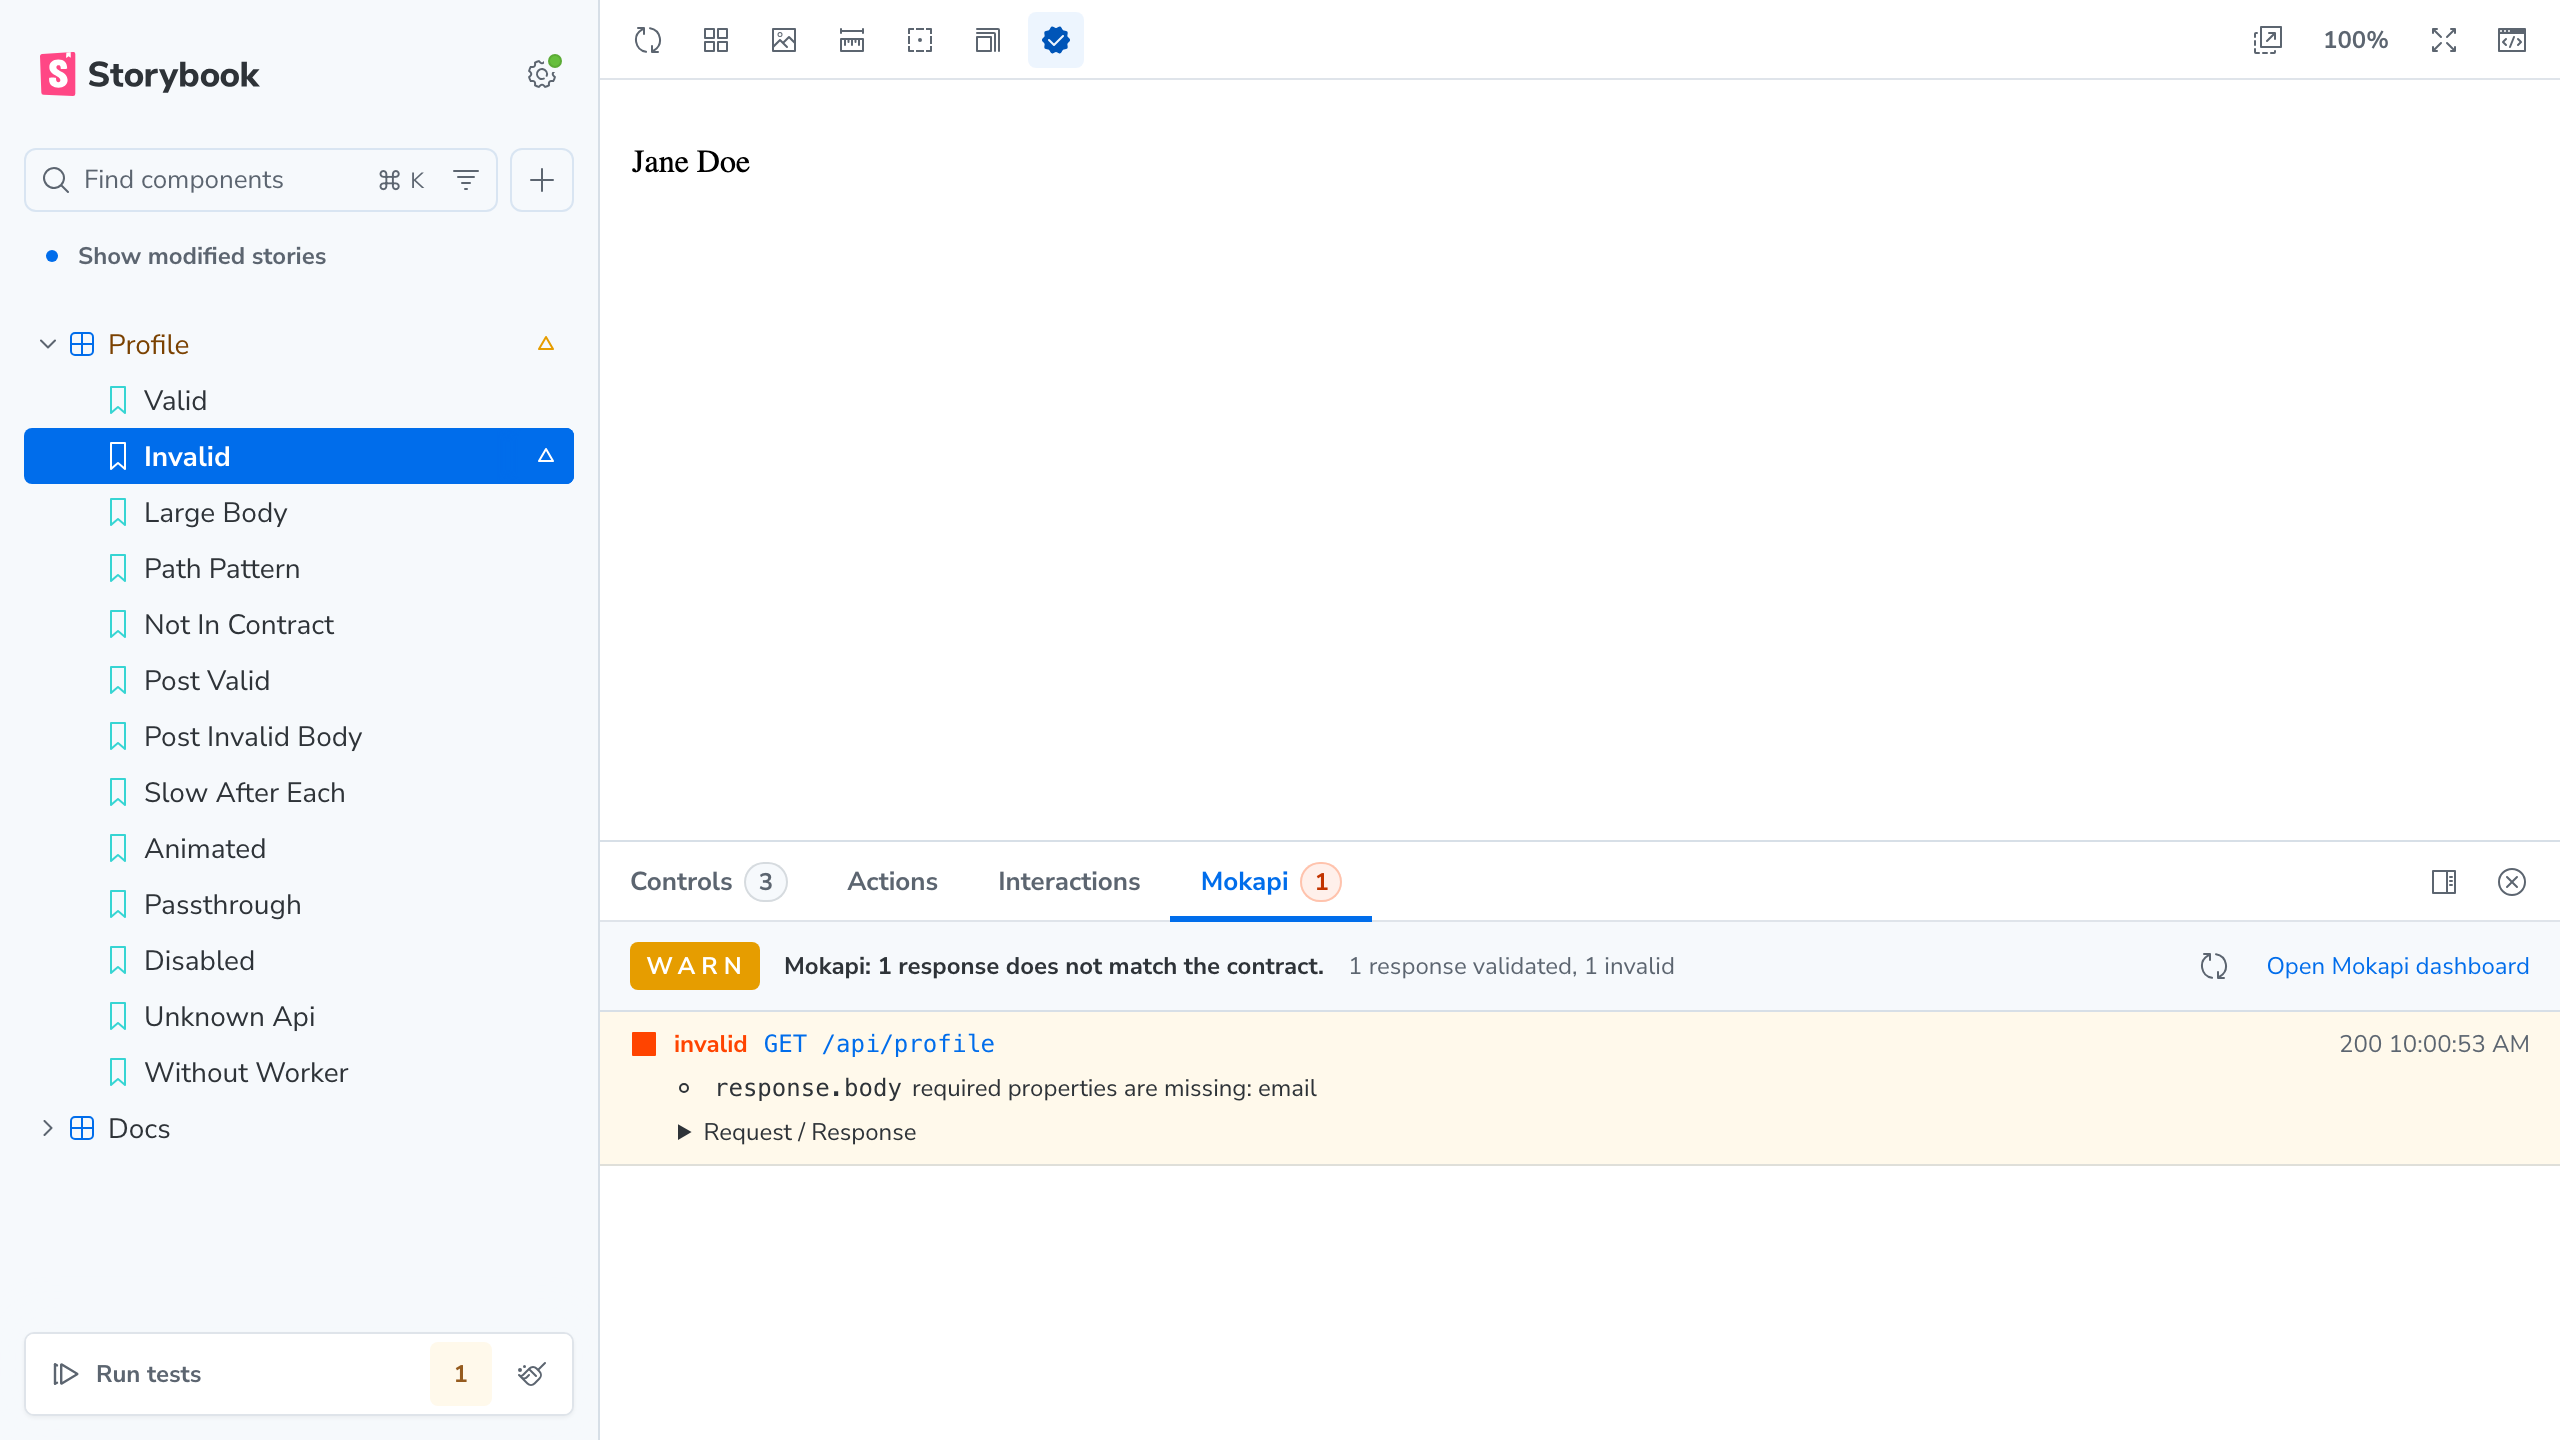
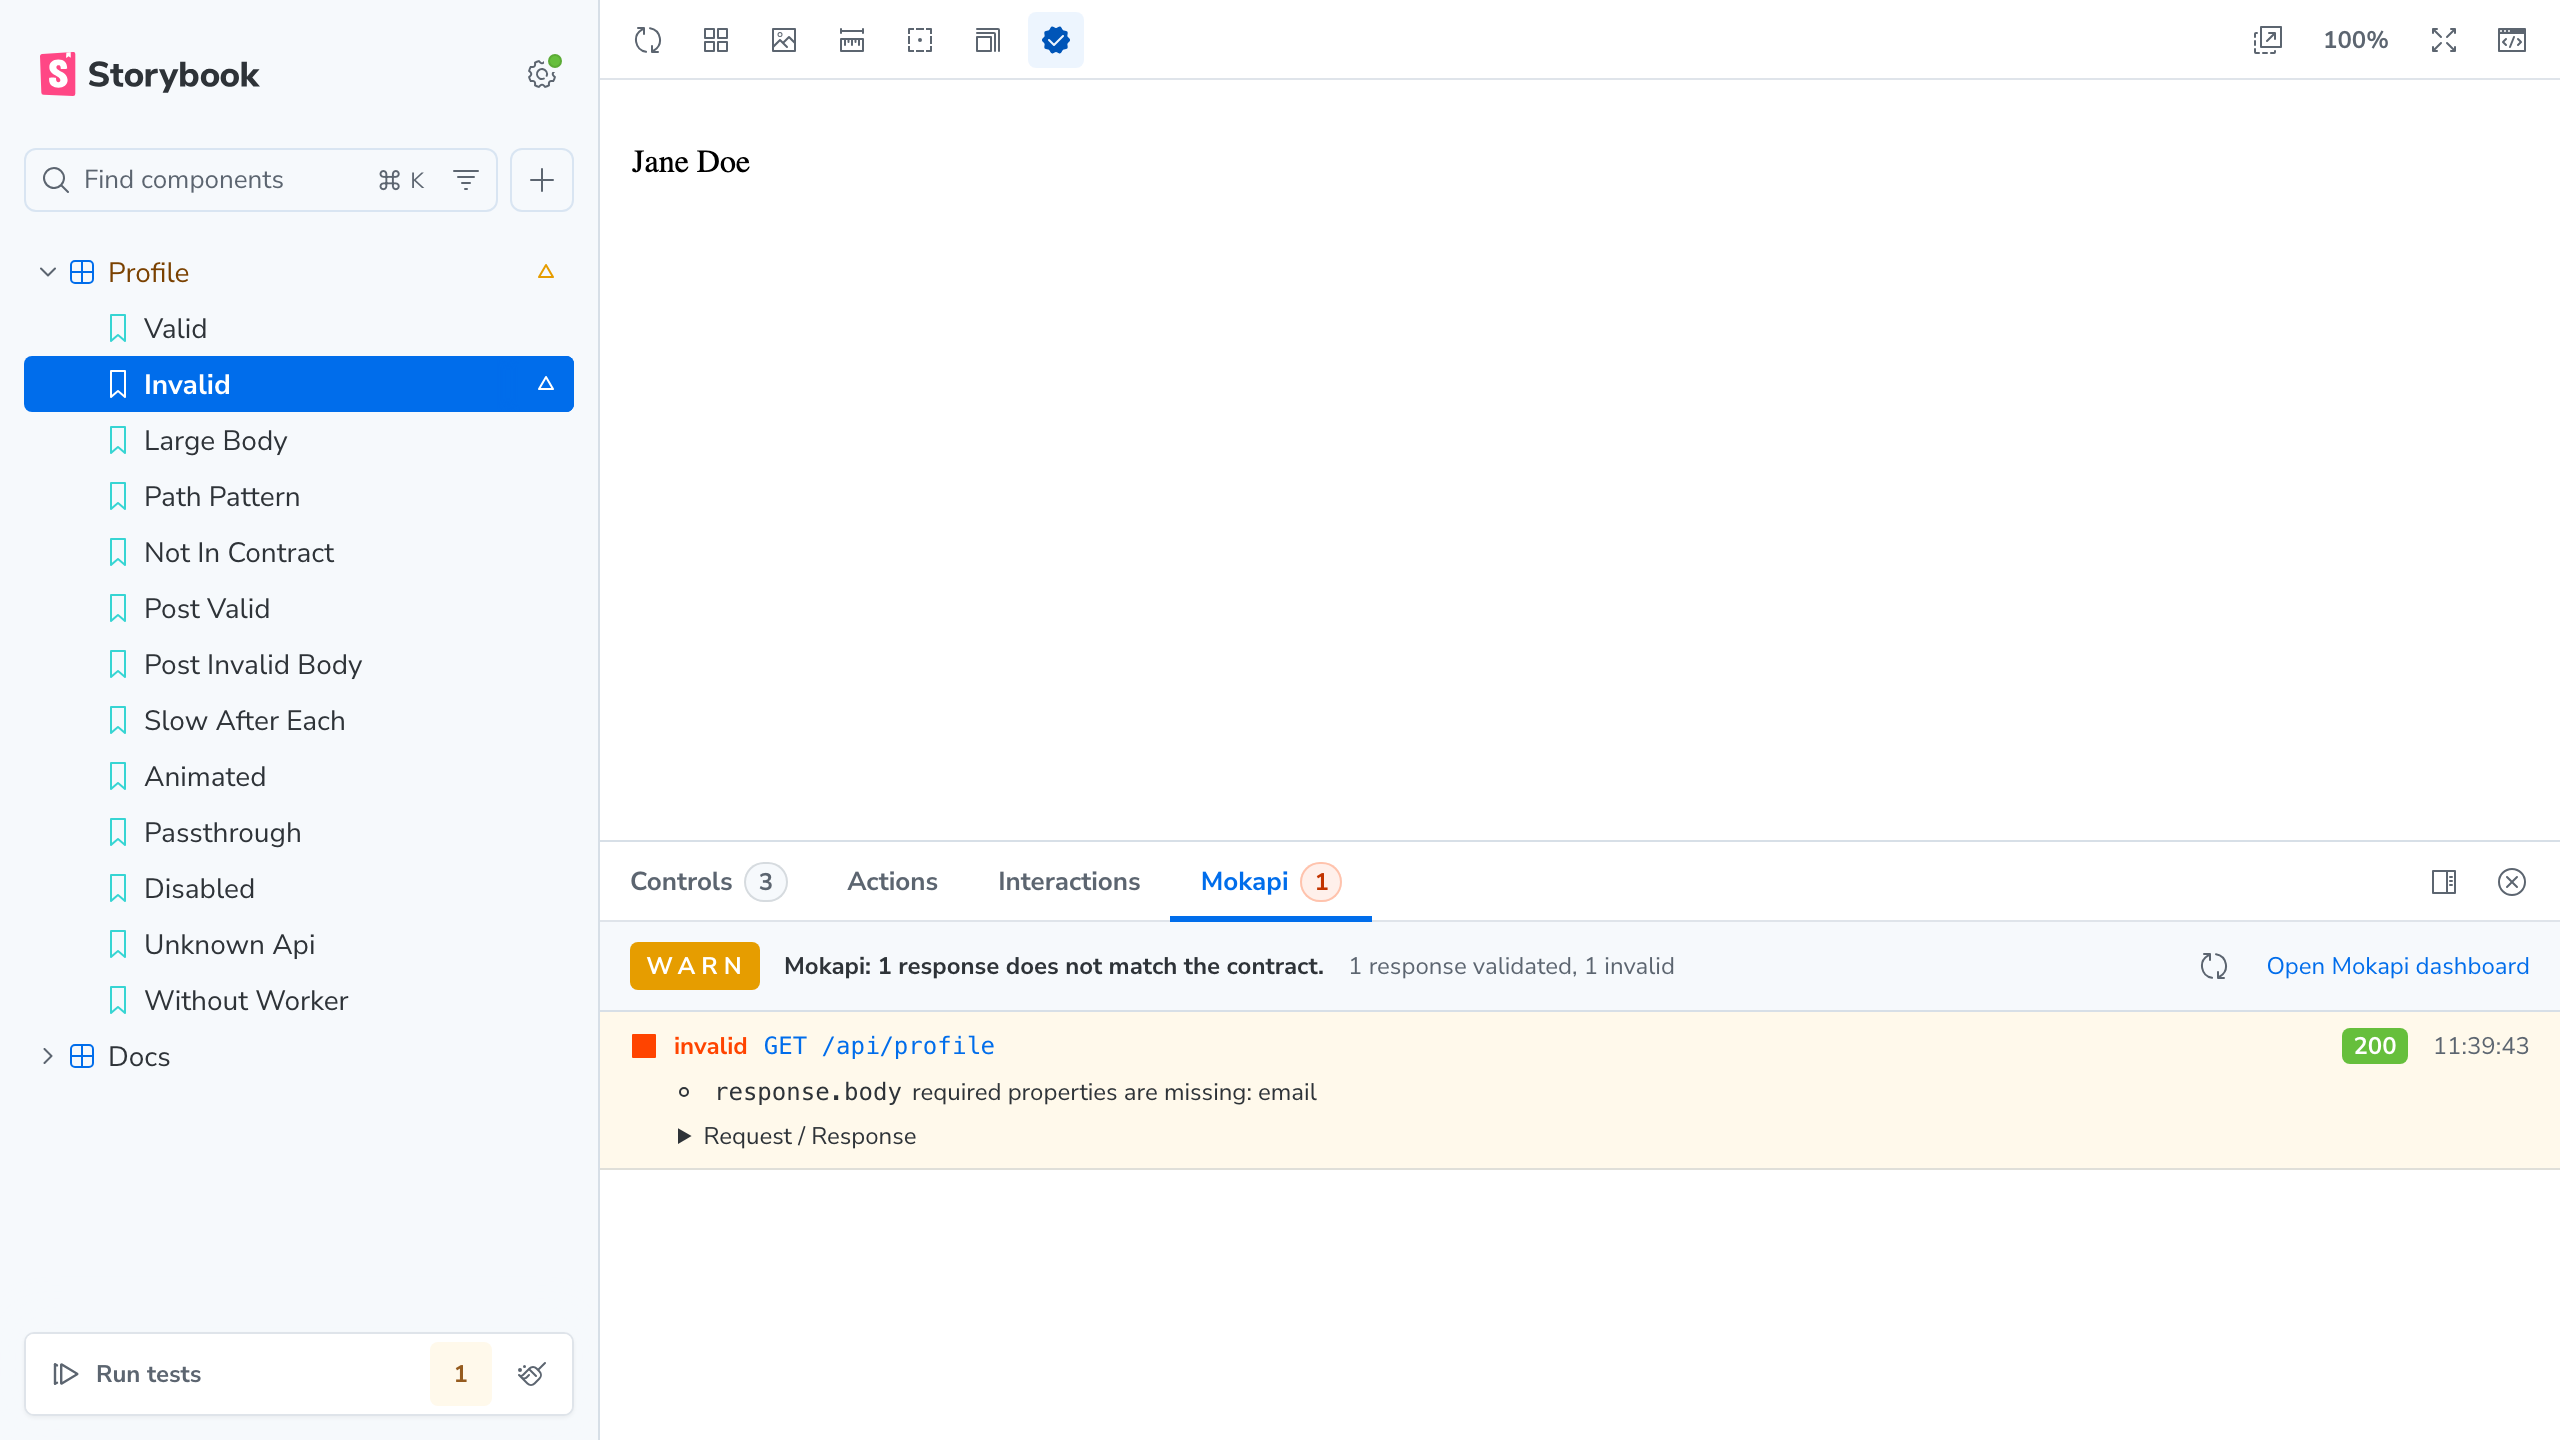
feat(panel): show HTTP status as colored badge and time as HH:mm:ss

diff --git a/src/manager.tsx b/src/manager.tsx
@@ -12,12 +12,17 @@ import {
   BODY_LIMIT,
   countLine,
   formatBody,
+  formatTime,
   KIND_LABELS,
   reportBadge,
   reportHeadline,
   sidebarStatus,
+  statusColor,
+  statusLabel,
+  statusText,
   STATUS_TYPE_ID,
   testModeText,
+  type BadgeColor,
   type ReportBadge,
 } from './report.js';
 import {
@@ -90,7 +95,7 @@ const Title = styled.span({ display: 'inline-flex', gap: 6, alignItems: 'center'
 const ProviderLabel = styled.div({ padding: '8px 12px' });
 
 // Same look as the status badge of Storybook's Interactions panel, which is not exported.
-const StatusBadge = styled.span<{ status: ReportBadge['status'] }>(({ theme, status }) => ({
+const StatusBadge = styled.span<{ status: BadgeColor }>(({ theme, status }) => ({
   display: 'inline-block',
   padding: '4px 6px 4px 8px',
   borderRadius: 4,
@@ -103,6 +108,8 @@ const StatusBadge = styled.span<{ status: ReportBadge['status'] }>(({ theme, sta
   minWidth: 65,
   textAlign: 'center',
 }));
+// Three digits next to the 12 px row text: same color, radius and weight, but no button look.
+const CodeBadge = styled(StatusBadge)({ textTransform: 'none', letterSpacing: 0, minWidth: 0, padding: '1px 6px' });
 const ToolbarRow = styled.div(({ theme }) => ({
   display: 'flex',
   flexWrap: 'wrap',
@@ -135,7 +142,8 @@ const EntryKind = styled.strong<{ status: Entry['status'] }>(({ theme, status })
   color: status === 'valid' ? theme.color.positive : status === 'invalid' ? theme.color.negative : theme.color.mediumdark,
 }));
 const EntryUrl = styled.span(({ theme }) => ({ fontFamily: theme.typography.fonts.mono }));
-const EntryMeta = styled.span(({ theme }) => ({ marginLeft: 'auto', whiteSpace: 'nowrap', color: theme.textMutedColor }));
+const EntryMeta = styled.span({ display: 'flex', alignItems: 'center', gap: 12, marginLeft: 'auto', whiteSpace: 'nowrap' });
+const EntryTime = styled.span(({ theme }) => ({ color: theme.textMutedColor }));
 const Errors = styled.ul({ margin: '6px 0 0', paddingLeft: 40 });
 const EntryMessage = styled.div({ paddingLeft: 24 });
 const Details = styled.details({ marginTop: 6, paddingLeft: 24 });
@@ -167,7 +175,25 @@ function EntryIcon({ status }: { status: Entry['status'] }) {
 const headerLines = (headers: Record<string, string>): string =>
   Object.entries(headers).map(([name, value]) => `${name}: ${value}`).join('\n');
 
-function Message({ title, summary, details }: { title: string; summary: string; details?: MessageDetails }) {
+function BadgeTooltip({ note, children }: { note: string; children: ReactNode }) {
+  return (
+    <WithTooltip hasChrome={false} placement="top" trigger="hover" tooltip={<TooltipNote note={note} />}>
+      {children}
+    </WithTooltip>
+  );
+}
+
+function HttpStatusBadge({ statusCode }: { statusCode: number }) {
+  return (
+    <BadgeTooltip note={statusText(statusCode) ?? String(statusCode)}>
+      <CodeBadge status={statusColor(statusCode)} aria-label={statusLabel(statusCode)} data-testid="mokapi-status-badge">
+        {statusCode}
+      </CodeBadge>
+    </BadgeTooltip>
+  );
+}
+
+function Message({ title, summary, details }: { title: string; summary: ReactNode; details?: MessageDetails }) {
   if (!details) return null;
   return (
     <div>
@@ -201,7 +227,10 @@ function EntryItem({ entry }: { entry: Entry }) {
             </Link>
           ) : request}
         </EntryUrl>
-        <EntryMeta>{`${entry.statusCode} ${new Date(entry.time).toLocaleTimeString()}`}</EntryMeta>
+        <EntryMeta data-testid="mokapi-entry-meta">
+          <HttpStatusBadge statusCode={entry.statusCode} />
+          <EntryTime data-testid="mokapi-entry-time">{formatTime(entry.time)}</EntryTime>
+        </EntryMeta>
       </EntryHeader>
       {entry.message && <EntryMessage>{entry.message}</EntryMessage>}
       {entry.errors.length > 0 && (
@@ -215,7 +244,7 @@ function EntryItem({ entry }: { entry: Entry }) {
         <Details data-testid="mokapi-details">
           <Summary>Request / Response</Summary>
           <Message title="Request" summary={request} details={entry.request} />
-          <Message title="Response" summary={String(entry.statusCode)} details={entry.response} />
+          <Message title="Response" summary={<HttpStatusBadge statusCode={entry.statusCode} />} details={entry.response} />
         </Details>
       )}
     </EntryRow>
@@ -224,9 +253,9 @@ function EntryItem({ entry }: { entry: Entry }) {
 
 function ReportStatusBadge({ badge, testMode }: { badge: ReportBadge; testMode: NonNullable<PanelState['testMode']> }) {
   return (
-    <WithTooltip hasChrome={false} placement="top" trigger="hover" tooltip={<TooltipNote note={testModeText(testMode)} />}>
+    <BadgeTooltip note={testModeText(testMode)}>
       <StatusBadge status={badge.status} data-testid="mokapi-report-badge">{badge.label}</StatusBadge>
-    </WithTooltip>
+    </BadgeTooltip>
   );
 }
 

diff --git a/src/report.ts b/src/report.ts
@@ -107,6 +107,53 @@ export function reportBadge(testMode: TestMode | undefined, report: Report | und
   return report === undefined ? { label: 'WAIT', status: 'mediumdark' } : REPORT_BADGES[report.status];
 }
 
+// The names are Storybook's theme colors. The groups are the ones of the dashboard's `getClassByStatusCode`.
+export type BadgeColor = 'positive' | 'secondary' | 'warning' | 'negative' | 'mediumdark';
+
+// Keyed by the hundreds digit of the status code.
+const STATUS_GROUPS: Record<number, { name: string; color: BadgeColor }> = {
+  1: { name: 'Informational', color: 'mediumdark' },
+  2: { name: 'Success', color: 'positive' },
+  3: { name: 'Redirect', color: 'secondary' },
+  4: { name: 'Client error', color: 'warning' },
+  5: { name: 'Server error', color: 'negative' },
+};
+
+// The codes of RFC 9110 (with its names) and the common ones of other RFCs.
+const STATUS_TEXTS: Record<number, string> = {
+  100: 'Continue', 101: 'Switching Protocols',
+  200: 'OK', 201: 'Created', 202: 'Accepted', 203: 'Non-Authoritative Information', 204: 'No Content',
+  205: 'Reset Content', 206: 'Partial Content',
+  300: 'Multiple Choices', 301: 'Moved Permanently', 302: 'Found', 303: 'See Other', 304: 'Not Modified',
+  305: 'Use Proxy', 307: 'Temporary Redirect', 308: 'Permanent Redirect',
+  400: 'Bad Request', 401: 'Unauthorized', 402: 'Payment Required', 403: 'Forbidden', 404: 'Not Found',
+  405: 'Method Not Allowed', 406: 'Not Acceptable', 407: 'Proxy Authentication Required', 408: 'Request Timeout',
+  409: 'Conflict', 410: 'Gone', 411: 'Length Required', 412: 'Precondition Failed', 413: 'Content Too Large',
+  414: 'URI Too Long', 415: 'Unsupported Media Type', 416: 'Range Not Satisfiable', 417: 'Expectation Failed',
+  418: "I'm a teapot", 421: 'Misdirected Request', 422: 'Unprocessable Content', 425: 'Too Early',
+  426: 'Upgrade Required', 429: 'Too Many Requests', 431: 'Request Header Fields Too Large',
+  500: 'Internal Server Error', 501: 'Not Implemented', 502: 'Bad Gateway', 503: 'Service Unavailable',
+  504: 'Gateway Timeout', 505: 'HTTP Version Not Supported', 511: 'Network Authentication Required',
+};
+
+// 0 (`HttpResponse.error()`) and anything else outside 100-599 has no group.
+const statusGroup = (code: number) => Number.isInteger(code) ? STATUS_GROUPS[Math.floor(code / 100)] : undefined;
+
+export const statusColor = (code: number): BadgeColor => statusGroup(code)?.color ?? 'mediumdark';
+
+export const statusText = (code: number): string | undefined => STATUS_TEXTS[code] ?? statusGroup(code)?.name;
+
+// The accessible name of the status badge.
+export const statusLabel = (code: number): string => [code, statusText(code)].filter((part) => part !== undefined).join(' ');
+
+const twoDigits = (value: number): string => String(value).padStart(2, '0');
+
+// Always 24-hour, whatever the browser locale, like a log line.
+export function formatTime(time: number): string {
+  const date = new Date(time);
+  return [date.getHours(), date.getMinutes(), date.getSeconds()].map(twoDigits).join(':');
+}
+
 // The panel shows at most this many characters of a body; Mokapi gets the whole body.
 export const BODY_LIMIT = 10_000;
 

diff --git a/README.md b/README.md
@@ -303,7 +303,24 @@ opens in a new tab. Hover the link to see the operation, for example
 `GET /profile/{id}`. Entries that are not in the contract or not reachable have
 no link.
 
-Under each entry, **Request / Response** is collapsed. Click it to see the
+The status is a badge with the status code, colored by its class:
+
+| Status  | Color  |
+|---------|--------|
+| 2xx     | green  |
+| 3xx     | blue   |
+| 4xx     | orange |
+| 5xx     | red    |
+| other   | gray   |
+
+Hover the badge to see the status text, for example `Not Found` for 404. A code
+without a known text shows its class instead: Informational, Success, Redirect,
+Client error or Server error. For a code outside 100-599 (for example `0` for
+`HttpResponse.error()`), the tooltip shows only the code. The time is
+`HH:mm:ss` in the time zone of your browser.
+
+Under each entry, **Request / Response** is collapsed, and its **Response**
+heading shows the same badge. Open it to see the
 headers and the body of the request and of the response as the addon sent them
 to Mokapi. A JSON body is pretty-printed, and an empty body shows `(empty)`. The
 panel shows at most 10,000 characters of a body and adds
